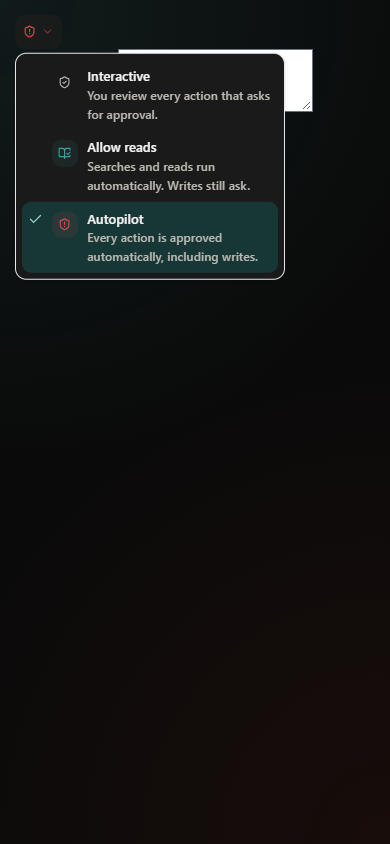
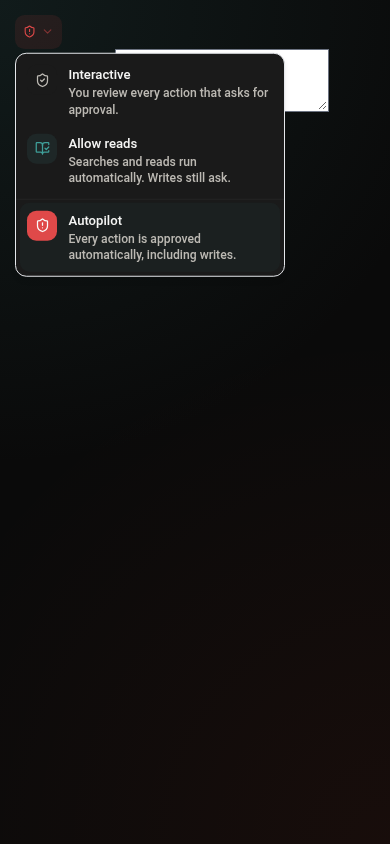
refactor(approvals): restyle the approval mode picker without a check mark
Mark the current mode with a filled icon tile instead of the select
check-mark gutter, drop resting row fills in favour of the composer's
hover tint, and make the trigger a ghost control like the attach button.
Separate the risky Autopilot option with a divider. SelectItem gains an
opt-out `indicator` prop; other selects are unchanged.

Changed region(s): [[0.0308, 0.0616, 0.7385, 0.3389], [0.8, 0.0308, 0.8615, 0.154], [0.0923, 0.0924, 0.1231, 0.1232]]

diff --git a/src/app/components/ApprovalModeControl.tsx b/src/app/components/ApprovalModeControl.tsx
@@ -1,6 +1,6 @@
 "use client";
 
-import { useRef, useState } from "react";
+import { Fragment, useRef, useState } from "react";
 import {
   BookOpenCheck,
   Loader2,
@@ -21,6 +21,7 @@ import {
   Select,
   SelectContent,
   SelectItem,
+  SelectSeparator,
   SelectTrigger,
   SelectValue,
 } from "@/components/ui/select";
@@ -48,18 +49,26 @@ const ICONS: Record<ApprovalMode, LucideIcon> = {
   autopilot: ShieldAlert,
 };
 
+// Ghost trigger like the composer's other controls: the mode's tone lives in
+// the icon and label; background appears only on hover or while open.
 const TRIGGER_TONE: Record<ApprovalMode, string> = {
-  interactive: "border-transparent text-muted-foreground hover:text-foreground",
+  interactive:
+    "text-muted-foreground hover:bg-accent hover:text-foreground data-[state=open]:bg-accent data-[state=open]:text-foreground dark:hover:bg-accent/60 dark:data-[state=open]:bg-accent/60",
   allow_read:
-    "border-primary/30 bg-primary/5 text-[var(--color-primary)] hover:bg-primary/10",
+    "text-[var(--color-primary)] hover:bg-primary/10 data-[state=open]:bg-primary/10",
   autopilot:
-    "border-destructive/30 bg-destructive/5 text-destructive hover:bg-destructive/10",
+    "text-destructive hover:bg-destructive/10 data-[state=open]:bg-destructive/10",
 };
 
-const ITEM_TONE: Record<ApprovalMode, string> = {
-  interactive: "bg-muted text-muted-foreground",
-  allow_read: "bg-primary/10 text-[var(--color-primary)]",
-  autopilot: "bg-destructive/10 text-destructive",
+// Rows have no resting fill; the current mode is marked by a filled icon tile
+// (a fill change, not colour alone) and Radix exposes it as aria-selected.
+const TILE_TONE: Record<ApprovalMode, string> = {
+  interactive:
+    "bg-muted text-muted-foreground group-[[data-highlighted][data-state=unchecked]]:text-foreground group-data-[state=checked]:bg-foreground group-data-[state=checked]:text-background",
+  allow_read:
+    "bg-primary/10 text-[var(--color-primary)] group-[[data-highlighted][data-state=unchecked]]:bg-primary/15 group-data-[state=checked]:bg-[var(--color-primary)] group-data-[state=checked]:text-white",
+  autopilot:
+    "bg-destructive/10 text-destructive group-[[data-highlighted][data-state=unchecked]]:bg-destructive/15 group-data-[state=checked]:bg-destructive group-data-[state=checked]:text-destructive-foreground",
 };
 
 /**
@@ -121,10 +130,10 @@ export function ApprovalModeControl({
                 : `${copy.label} · ${copy.summary}`)
             }
             className={cn(
-              "h-9 w-auto gap-1.5 rounded-lg border px-2 text-xs shadow-none focus:ring-offset-0 [&>svg]:h-3.5 [&>svg]:w-3.5",
+              "h-9 w-auto gap-1.5 rounded-lg border-transparent bg-transparent px-2 text-xs shadow-none transition-[color,background-color,transform] duration-150 focus:ring-offset-0 motion-reduce:transition-none [&>svg]:h-3.5 [&>svg]:w-3.5",
               PRESS_FEEDBACK,
               error && mode === "interactive"
-                ? "border-destructive/30 text-destructive"
+                ? "text-destructive hover:bg-destructive/10 data-[state=open]:bg-destructive/10"
                 : TRIGGER_TONE[mode]
             )}
           >
@@ -146,7 +155,7 @@ export function ApprovalModeControl({
           <SelectContent
             side="top"
             align="start"
-            className={cn("w-72 rounded-xl p-0.5", INSTANT)}
+            className={cn("w-72 rounded-xl", INSTANT)}
             onCloseAutoFocus={(event) => {
               if (!handingOff.current) return;
               handingOff.current = false;
@@ -157,38 +166,43 @@ export function ApprovalModeControl({
               const ItemIcon = ICONS[option];
               const locked = option === "autopilot" && !approvals.canAutopilot;
               return (
-                <SelectItem
-                  key={option}
-                  value={option}
-                  textValue={APPROVAL_MODE_COPY[option].label}
-                  disabled={
-                    locked ||
-                    (option !== "interactive" && option !== mode && !ready)
-                  }
-                  className="items-start gap-3 rounded-lg py-2 pl-8 pr-2 [&>span:first-child]:top-3"
-                >
-                  <span className="flex items-start gap-2.5">
-                    <span
-                      className={cn(
-                        "mt-0.5 flex h-7 w-7 shrink-0 items-center justify-center rounded-lg",
-                        ITEM_TONE[option]
-                      )}
-                      aria-hidden="true"
-                    >
-                      <ItemIcon className="h-3.5 w-3.5" />
-                    </span>
-                    <span className="min-w-0">
-                      <span className="block text-sm font-medium text-foreground">
-                        {APPROVAL_MODE_COPY[option].label}
+                <Fragment key={option}>
+                  {option === "autopilot" && (
+                    <SelectSeparator className="my-1 bg-border/70" />
+                  )}
+                  <SelectItem
+                    value={option}
+                    textValue={APPROVAL_MODE_COPY[option].label}
+                    indicator={false}
+                    disabled={
+                      locked ||
+                      (option !== "interactive" && option !== mode && !ready)
+                    }
+                    className="group items-start rounded-lg px-2 py-2 transition-colors duration-150 focus:bg-primary/5 focus:text-foreground motion-reduce:transition-none"
+                  >
+                    <span className="flex items-start gap-3">
+                      <span
+                        className={cn(
+                          "flex h-8 w-8 shrink-0 items-center justify-center rounded-lg transition-colors duration-150 motion-reduce:transition-none",
+                          TILE_TONE[option]
+                        )}
+                        aria-hidden="true"
+                      >
+                        <ItemIcon className="h-4 w-4" />
                       </span>
-                      <span className="block text-xs leading-5 text-muted-foreground">
-                        {locked
-                          ? "Available to administrators and developers."
-                          : APPROVAL_MODE_COPY[option].summary}
+                      <span className="min-w-0 pt-px">
+                        <span className="block text-sm font-medium leading-5 text-foreground">
+                          {APPROVAL_MODE_COPY[option].label}
+                        </span>
+                        <span className="block text-xs leading-[1.125rem] text-muted-foreground">
+                          {locked
+                            ? "Available to administrators and developers."
+                            : APPROVAL_MODE_COPY[option].summary}
+                        </span>
                       </span>
                     </span>
-                  </span>
-                </SelectItem>
+                  </SelectItem>
+                </Fragment>
               );
             })}
           </SelectContent>

diff --git a/src/components/ui/select.tsx b/src/components/ui/select.tsx
@@ -111,23 +111,32 @@ const SelectLabel = React.forwardRef<
 ));
 SelectLabel.displayName = SelectPrimitive.Label.displayName;
 
+/**
+ * Select option row. Pass `indicator={false}` when the row styles its own
+ * checked state (via `data-[state=checked]`) and the check gutter is redundant.
+ */
 const SelectItem = React.forwardRef<
   React.ElementRef<typeof SelectPrimitive.Item>,
-  React.ComponentPropsWithoutRef<typeof SelectPrimitive.Item>
->(({ className, children, ...props }, ref) => (
+  React.ComponentPropsWithoutRef<typeof SelectPrimitive.Item> & {
+    indicator?: boolean;
+  }
+>(({ className, children, indicator = true, ...props }, ref) => (
   <SelectPrimitive.Item
     ref={ref}
     className={cn(
-      "relative flex w-full cursor-default select-none items-center rounded-sm py-1.5 pl-8 pr-2 text-sm outline-none focus:bg-accent focus:text-accent-foreground data-[disabled]:pointer-events-none data-[disabled]:opacity-50",
+      "relative flex w-full cursor-default select-none items-center rounded-sm py-1.5 pr-2 text-sm outline-none focus:bg-accent focus:text-accent-foreground data-[disabled]:pointer-events-none data-[disabled]:opacity-50",
+      indicator ? "pl-8" : "pl-2",
       className
     )}
     {...props}
   >
-    <span className="absolute left-2 flex h-3.5 w-3.5 items-center justify-center">
-      <SelectPrimitive.ItemIndicator>
-        <Check className="h-4 w-4" />
-      </SelectPrimitive.ItemIndicator>
-    </span>
+    {indicator && (
+      <span className="absolute left-2 flex h-3.5 w-3.5 items-center justify-center">
+        <SelectPrimitive.ItemIndicator>
+          <Check className="h-4 w-4" />
+        </SelectPrimitive.ItemIndicator>
+      </span>
+    )}
 
     <SelectPrimitive.ItemText>{children}</SelectPrimitive.ItemText>
   </SelectPrimitive.Item>
